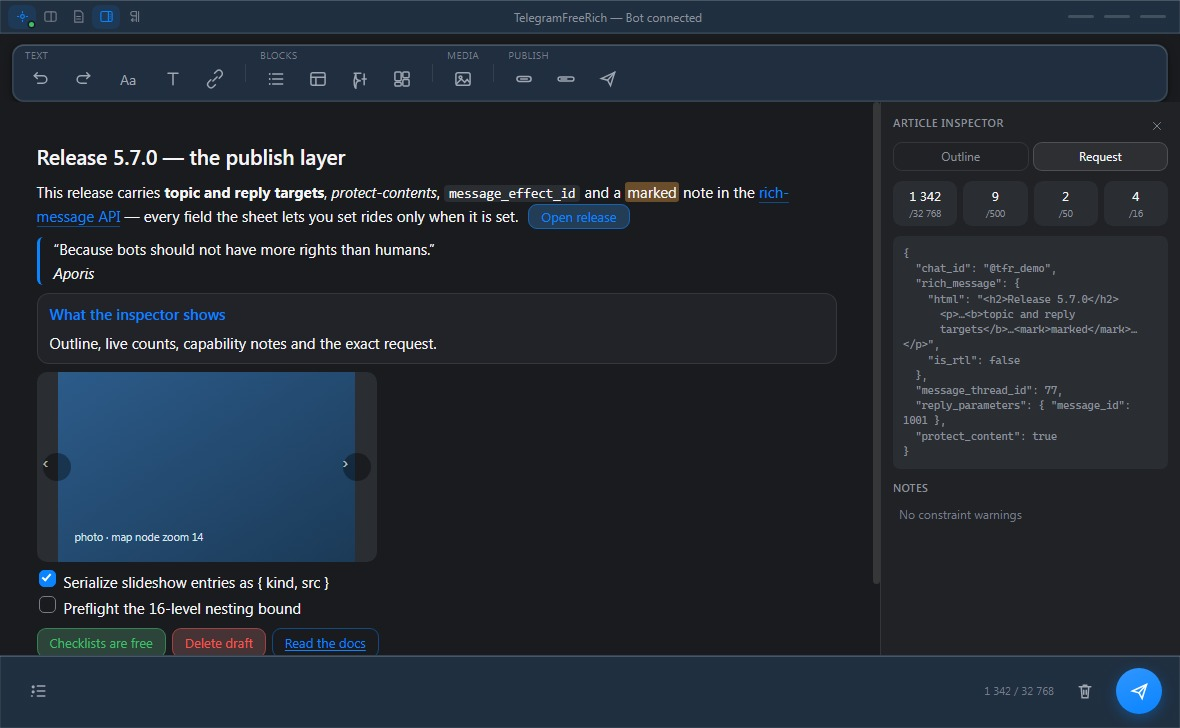
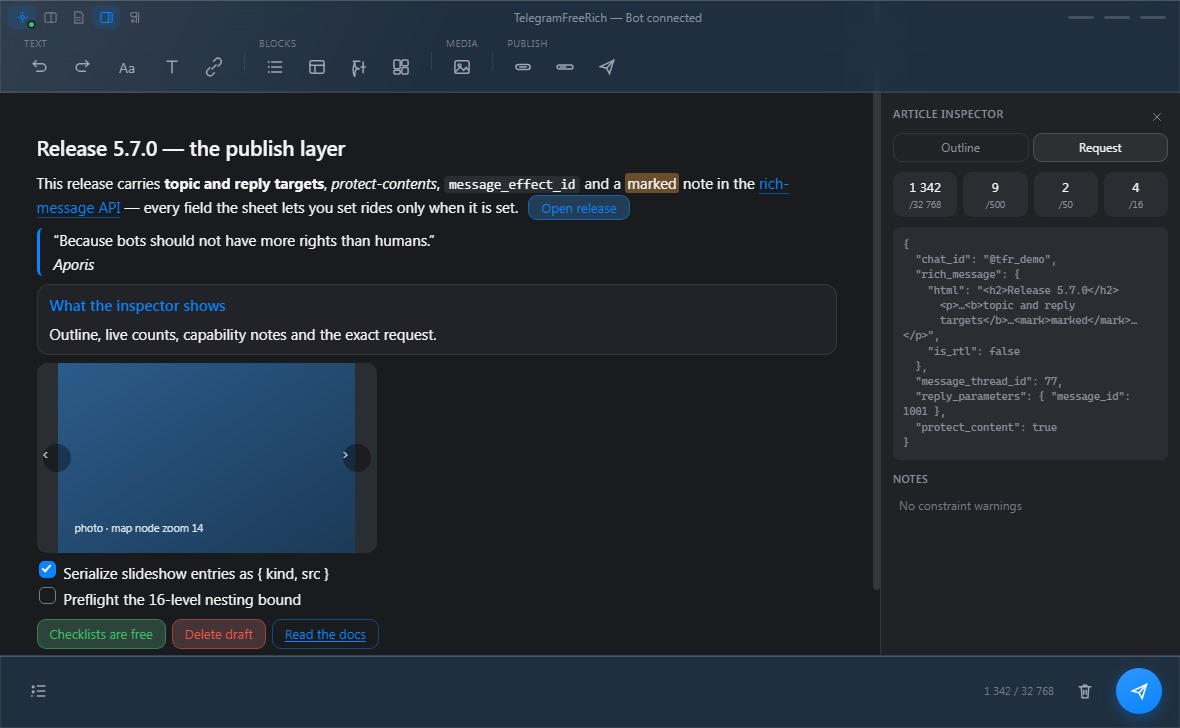
5.7.6: one glass fascia — title row and tools merged, workspace slides under the glass so the blur refracts real content; pointer glint on chrome buttons

diff --git a/src/renderer/App.jsx b/src/renderer/App.jsx
@@ -12,7 +12,7 @@
  * @module App
  */
 
-import { useCallback, useEffect, useMemo, useRef, useState } from 'react';
+import { useCallback, useEffect, useLayoutEffect, useMemo, useRef, useState } from 'react';
 import { EditorContent } from '@tiptap/react';
 
 import BottomBar from './components/BottomBar.jsx';
@@ -76,6 +76,25 @@ function Shell({ lang, onLangChange }) {
   );
 
   const [theme, setTheme] = useState(() => themeOf(localStorage.getItem(THEME_KEY)));
+
+  /** Live height of the merged glass top bar (title row + toolbar rows) —
+      published as --topbar-h so the workspace columns can slide their
+      content beneath the glass. @type {React.Ref<HTMLElement>} */
+  const topbarRef = useRef(null);
+  useLayoutEffect(() => {
+    const node = topbarRef.current;
+    if (!node) return undefined;
+    const publish = () =>
+      document.body.style.setProperty('--topbar-h', `${node.offsetHeight}px`);
+    publish();
+    const observer = new ResizeObserver(publish);
+    observer.observe(node);
+    return () => {
+      observer.disconnect();
+      document.body.style.removeProperty('--topbar-h');
+    };
+  }, []);
+
   const [settings, setSettings] = useState(() => ({
     tokenSet: false,
     chatId: '',
@@ -577,20 +596,29 @@ function Shell({ lang, onLangChange }) {
 
   return (
     <>
-      <TitleBar
-        tokenSet={settings.tokenSet}
-        previewOpen={previewOpen}
-        draftsOpen={draftsOpen}
-        inspectorOpen={inspectorOpen}
-        isRtl={isRtl}
-        onToggleRtl={toggleRtl}
-        onTogglePreview={() => setPreviewOpen((v) => !v)}
-        onToggleInspector={() => setInspectorOpen((v) => !v)}
-        onOpenDrafts={openDrafts}
-        onOpenSettings={() => setSettingsOpen(true)}
-      />
+      {/* One glass fascia — the window controls and the formatting tools
+          share a single tinted surface instead of two stacked bars; the
+          workspace slides underneath so the glass blurs real content. */}
+      <header className="topbar" ref={topbarRef}>
+        <TitleBar
+          tokenSet={settings.tokenSet}
+          previewOpen={previewOpen}
+          draftsOpen={draftsOpen}
+          inspectorOpen={inspectorOpen}
+          isRtl={isRtl}
+          onToggleRtl={toggleRtl}
+          onTogglePreview={() => setPreviewOpen((v) => !v)}
+          onToggleInspector={() => setInspectorOpen((v) => !v)}
+          onOpenDrafts={openDrafts}
+          onOpenSettings={() => setSettingsOpen(true)}
+        />
 
-      <Toolbar editor={editor} ctx={ctx} onPublishOptions={() => setPublishOpen(true)} />
+        <Toolbar
+          editor={editor}
+          ctx={ctx}
+          onPublishOptions={() => setPublishOpen(true)}
+        />
+      </header>
 
       <main
         className={`workspace${previewOpen ? ' with-preview' : ''}${

diff --git a/src/renderer/styles/app.css b/src/renderer/styles/app.css
@@ -4,17 +4,28 @@
 
 /* ═══════════════════════════ Title bar ═══════════════════════════ */
 
+/* The merged top chrome — the title row and the formatting tools share one
+   Liquid Glass fascia (no second bar). Content slides beneath it: the
+   workspace pulls itself up by the bar's measured height (--topbar-h, set
+   by App.jsx) and pads the scroller back down, so the glass blurs real
+   content instead of an empty canvas. */
+
+.topbar {
+  position: relative;
+  z-index: 40;
+  flex-shrink: 0;
+  background: linear-gradient(115deg, var(--glass-sheen), transparent 38%),
+    linear-gradient(var(--glass-tint), var(--glass-tint)), var(--glass-face);
+  backdrop-filter: var(--pop-blur);
+  box-shadow: var(--glass-shadows);
+  border-bottom: 1px solid var(--outline);
+}
+
 .titlebar {
   display: flex;
   align-items: center;
   height: var(--titlebar-h);
-  /* Liquid Glass, tinted by whichever palette runs: the accent wash rides
-     on top of the translucent face, and the specular inset lays the top
-     light with the faint bend around the other three edges. */
-  background: linear-gradient(var(--glass-tint), var(--glass-tint)),
-    var(--glass-face);
-  box-shadow: var(--glass-shadows);
-  border-bottom: 1px solid var(--outline);
+  background: transparent;
   flex-shrink: 0;
   padding-inline-start: 8px;
   -webkit-app-region: drag;
@@ -51,6 +62,8 @@
 .tl-btn:hover {
   background: var(--hover);
   color: var(--text);
+  /* The glass answers the pointer with a brighter top light. */
+  box-shadow: inset 0 1px 0 var(--glass-spec);
 }
 
 .tl-btn.active {
@@ -102,7 +115,9 @@
   flex: 1;
   min-height: 0;
   display: flex;
-  background: var(--bg);
+  background: transparent;
+  /* Slide under the glass fascia; each column re-pads itself below it. */
+  margin-top: calc(-1 * var(--topbar-h, calc(var(--titlebar-h) + 92px)));
 }
 
 .editor-pane {
@@ -110,6 +125,7 @@
   min-width: 0;
   overflow-y: auto;
   overflow-x: hidden;
+  padding-top: var(--topbar-h, calc(var(--titlebar-h) + 92px));
 }
 
 .workspace.with-preview .editor-pane {
@@ -126,6 +142,7 @@
   background: var(--surface);
   overflow-y: auto;
   padding: 10px 12px 18px;
+  margin-top: var(--topbar-h, calc(var(--titlebar-h) + 92px));
   animation: tfr-fade var(--motion-base) var(--ease);
 }
 
@@ -332,6 +349,7 @@
 .bb-btn:hover {
   background: var(--hover);
   color: var(--text);
+  box-shadow: inset 0 1px 0 var(--glass-spec);
 }
 
 .bb-btn.active {

diff --git a/src/renderer/styles/theme.css b/src/renderer/styles/theme.css
@@ -90,6 +90,7 @@ textarea {
   --glass-panel: rgba(42, 58, 76, 0.86);
   --glass-spec: rgba(255, 255, 255, 0.18);
   --glass-edge: rgba(255, 255, 255, 0.07);
+  --glass-sheen: rgba(255, 255, 255, 0.09);
   --glass-shadows: inset 0 1px 0 var(--glass-spec),
     inset 1px 0 0 var(--glass-edge), inset -1px 0 0 var(--glass-edge),
     inset 0 -1px 0 var(--glass-edge);
@@ -152,6 +153,7 @@ body[data-theme='black'] {
   --glass-panel: rgba(10, 13, 17, 0.86);
   --glass-spec: rgba(255, 255, 255, 0.16);
   --glass-edge: rgba(255, 255, 255, 0.06);
+  --glass-sheen: rgba(255, 255, 255, 0.07);
   --ring: color-mix(in srgb, var(--accent) 26%, transparent);
   --shadow-sm: 0 1px 4px rgba(0, 0, 0, 0.55), 0 2px 12px rgba(0, 0, 0, 0.35);
   --shadow: 0 12px 38px rgba(0, 0, 0, 0.62);
@@ -194,6 +196,7 @@ body[data-theme='graphite'] {
   --glass-panel: rgba(38, 41, 46, 0.87);
   --glass-spec: rgba(255, 255, 255, 0.16);
   --glass-edge: rgba(255, 255, 255, 0.06);
+  --glass-sheen: rgba(255, 255, 255, 0.08);
   --ring: color-mix(in srgb, var(--accent) 24%, transparent);
   --shadow-sm: 0 1px 3px rgba(0, 0, 0, 0.4), 0 2px 10px rgba(0, 0, 0, 0.24);
   --shadow: 0 10px 34px rgba(0, 0, 0, 0.48);
@@ -236,6 +239,7 @@ body[data-theme='day'] {
   --glass-panel: rgba(255, 255, 255, 0.86);
   --glass-spec: rgba(255, 255, 255, 0.75);
   --glass-edge: rgba(16, 32, 54, 0.08);
+  --glass-sheen: rgba(255, 255, 255, 0.38);
   --ring: color-mix(in srgb, var(--accent) 20%, transparent);
   --shadow-sm: 0 1px 3px rgba(24, 40, 60, 0.09), 0 2px 10px rgba(24, 40, 60, 0.05);
   --shadow: 0 12px 32px rgba(24, 40, 60, 0.14);

diff --git a/src/renderer/styles/toolbar.css b/src/renderer/styles/toolbar.css
@@ -10,18 +10,20 @@
  * button stays visible; nothing is scrolled out of reach.
  */
 
+/* The toolbar is not a second bar — it is the lower row of the glass fascia
+   (.topbar carries the material). All it keeps here is rhythm. */
+
 .tfr-toolbar {
   display: flex;
   flex-wrap: wrap;
   align-items: center;
   gap: 4px;
-  margin: 10px 12px 0;
-  padding: 5px 8px 6px;
-  background: linear-gradient(var(--glass-tint), var(--glass-tint)),
-    var(--glass-face);
-  border: 1px solid var(--outline);
-  border-radius: var(--radius-md);
-  box-shadow: var(--glass-shadows), var(--shadow-sm);
+  margin: 0 12px;
+  padding: 4px 8px 9px;
+  background: transparent;
+  border: none;
+  border-radius: 0;
+  box-shadow: none;
   flex-shrink: 0;
 }
 
@@ -83,6 +85,7 @@
 .tb-btn:hover:not(:disabled) {
   background: var(--hover);
   color: var(--text);
+  box-shadow: inset 0 1px 0 var(--glass-spec);
 }
 
 .tb-btn:active:not(:disabled) {

diff --git a/scripts/screenshot/mock.html b/scripts/screenshot/mock.html
@@ -38,6 +38,8 @@
   </style>
 </head>
 <body>
+  <!-- ═══════════════ Glass fascia: title row + toolbar rows ═══════════════ -->
+  <div class="topbar">
   <!-- ═══════════════ Title bar ═══════════════ -->
   <div class="titlebar">
     <div class="titlebar-lead">
@@ -96,6 +98,14 @@
       </div>
     </div>
   </div>
+  </div>
+  <script>
+    // Mirrors App.jsx's ResizeObserver: the workspace slides under the glass.
+    document.body.style.setProperty(
+      '--topbar-h',
+      document.querySelector('.topbar').offsetHeight + 'px',
+    );
+  </script>
 
   <!-- ═══════════════ Workspace: editor + inspector ═══════════════ -->
   <main class="workspace with-inspector">

diff --git a/src/renderer/styles/preview.css b/src/renderer/styles/preview.css
@@ -9,6 +9,7 @@
   flex-direction: column;
   background: var(--surface);
   min-width: 0;
+  margin-top: var(--topbar-h, calc(var(--titlebar-h) + 92px));
   animation: tfr-fade var(--motion-base) var(--ease);
 }
 

diff --git a/CHANGELOG.md b/CHANGELOG.md
@@ -1,5 +1,21 @@
 # Changelog
 
+## [5.7.6] - 2026-10-22
+
+### Fixed — the fascia is one surface now
+
+- **The buttons bar stopped being a separate card.** Title row and
+  formatting tools now live inside a single merged glass top bar — no
+  second strip between it and the article
+- **The glass finally behaves like glass.** The workspace pulls itself up
+  underneath the top bar (measured live, resizable toolbar included) and
+  pads its scroller back down, so the editor content slides beneath the
+  fascia and the blur acts on real text rather than an empty canvas; the
+  preview and inspector columns start beneath the glass edge
+- The material gained the off-axis light sweep Apple paints on Liquid
+  Glass, and the buttons on the fascia answer the pointer with a brighter
+  top specular — the interactive() behavior, translated
+
 ## [5.7.5] - 2026-10-22
 
 ### Added — Liquid Glass, tinted

diff --git a/README_fa.md b/README_fa.md
@@ -8,7 +8,7 @@
 <p align="center"><em>چون باتها نباید از انسانها حقوق بیشتری داشته باشند.</em></p>
 
 <p align="center">
-  <img src="https://img.shields.io/badge/version-5.7.5-2ca5e0" alt="نسخه ۵٫۷٫۵">
+  <img src="https://img.shields.io/badge/version-5.7.6-2ca5e0" alt="نسخه ۵٫۷٫۶">
   <img src="https://img.shields.io/badge/Bot%20API-10.3-2ca5e0?logo=telegram&logoColor=white" alt="Bot API 10.3">
   <img src="https://img.shields.io/badge/Electron-35-47848f?logo=electron&logoColor=white" alt="Electron 35">
   <img src="https://img.shields.io/badge/React-19-61dafb?logo=react&logoColor=white" alt="React 19">

diff --git a/README.md b/README.md
@@ -8,7 +8,7 @@
 <p align="center"><em>Because bots should not have more rights than humans.</em></p>
 
 <p align="center">
-  <img src="https://img.shields.io/badge/version-5.7.5-2ca5e0" alt="Version 5.7.5">
+  <img src="https://img.shields.io/badge/version-5.7.6-2ca5e0" alt="Version 5.7.6">
   <img src="https://img.shields.io/badge/Bot%20API-10.3-2ca5e0?logo=telegram&logoColor=white" alt="Bot API 10.3">
   <img src="https://img.shields.io/badge/Electron-35-47848f?logo=electron&logoColor=white" alt="Electron 35">
   <img src="https://img.shields.io/badge/React-19-61dafb?logo=react&logoColor=white" alt="React 19">
